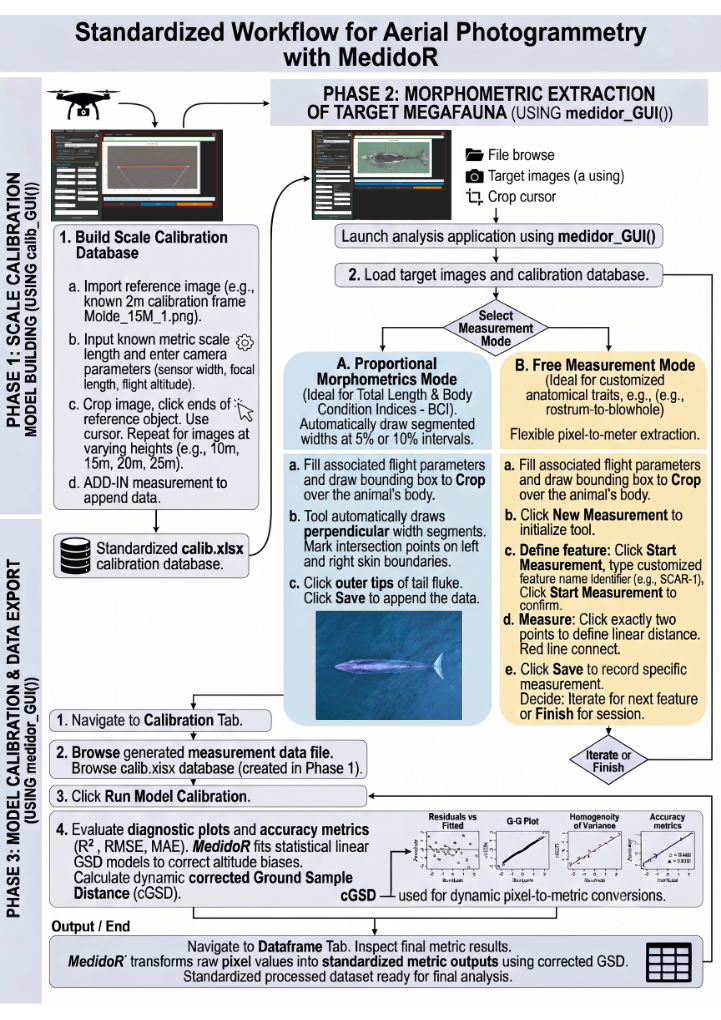
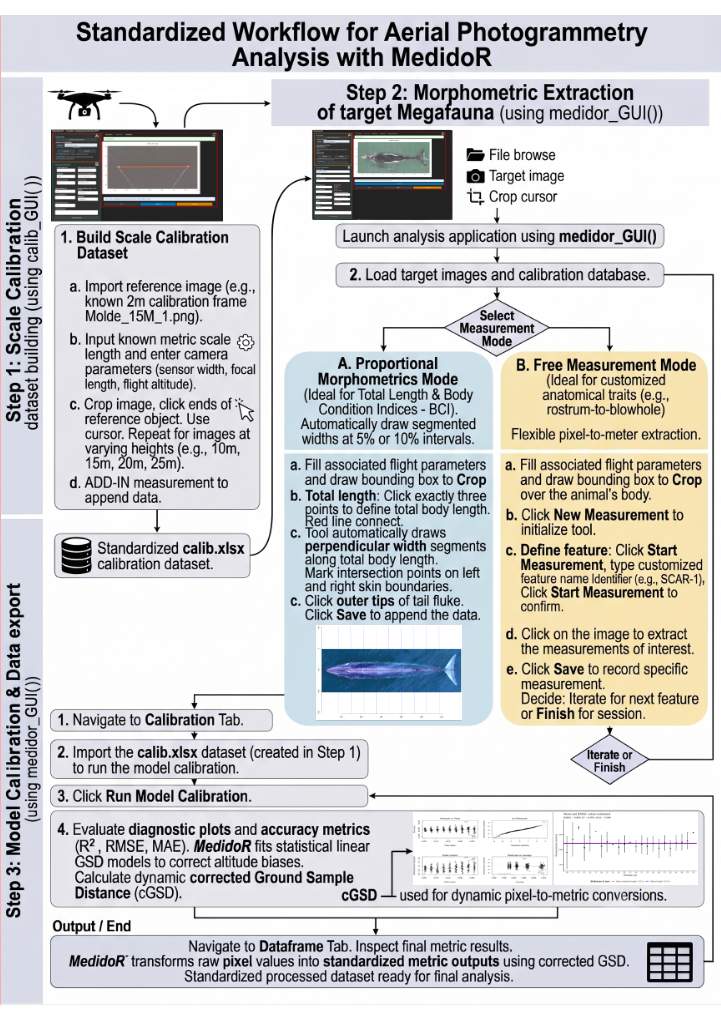
updating_figure_3

diff --git a/JOSS/paper.md b/JOSS/paper.md
@@ -52,7 +52,7 @@ Over the last decade, the emerging tools have been rapidly inceasing their numbe
 
 # AI usage disclosure
 
-No generative AI tools were used in the development of the source code or the conceptual design of this software. Generative AI (Google Gemini 3.1 pro) was utilized strictly for copy-editing and formatting this manuscript to comply with JOSS submission guidelines. All automated outputs were rigorously reviewed, validated, and edited by the human author, who assumes full responsibility for the content.
+No generative AI tools were used in the development of the source code or the conceptual design of this software. Generative AI (Google Gemini 3.1 pro) was utilized strictly for copy-editing and formatting this manuscript to comply with JOSS submission guidelines and generate the base-image for workflow illustration (Figure 3). All automated outputs were rigorously reviewed, validated, and edited by the human author, who assumes full responsibility for the content.
 
 # Acknowledgements
 
